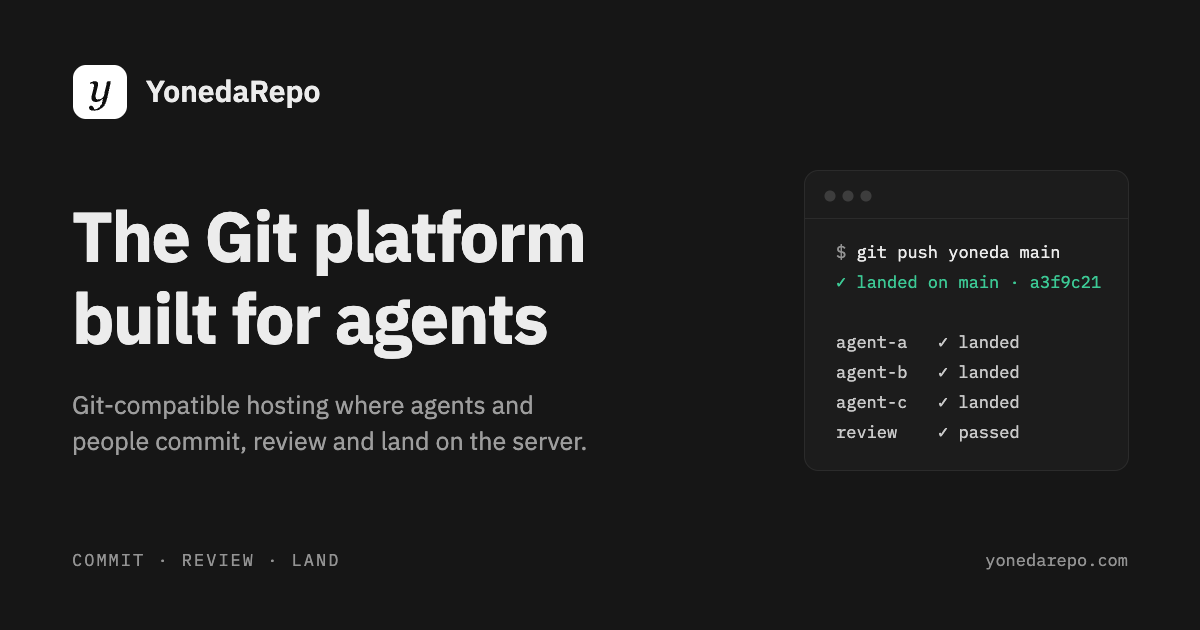
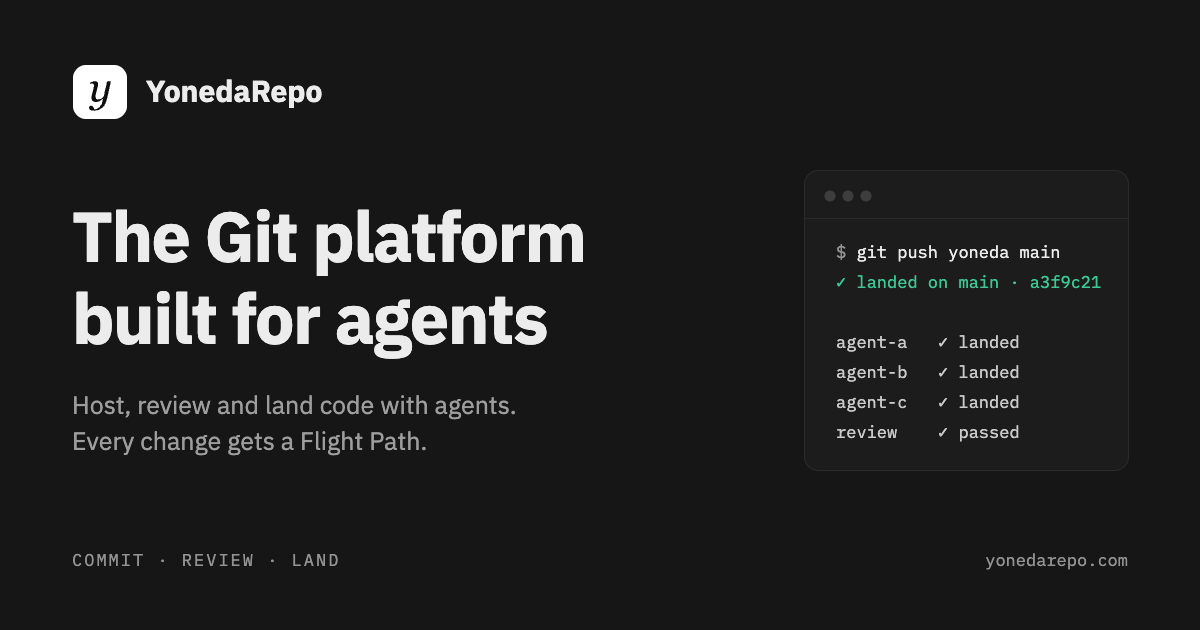
Search and social previews use the Flight Path line

Changed region(s): [[0.0617, 0.6333, 0.4933, 0.7238], [0.1542, 0.1206, 0.2775, 0.181]]

diff --git a/frontend/index.html b/frontend/index.html
@@ -5,7 +5,7 @@
     <meta name="viewport" content="width=device-width, initial-scale=1.0" />
     <meta name="theme-color" content="#0f0f0f" />
     <title>YonedaRepo — The Git platform built for agents</title>
-    <meta name="description" content="Git-compatible hosting where agents and people commit, review and land on the server. Every session’s context stays with the code." />
+    <meta name="description" content="Host, review and land code with agents on a Git platform that gives every change a Flight Path, built for the scale and throughput of agentic coding. Every session’s context stays with the code." />
     <script>
       // The viewer's theme before the first paint (features/shell/theme.ts): an explicit
       // Light or Dark choice; without one CSS follows prefers-color-scheme.
@@ -21,16 +21,16 @@
     <meta property="og:type" content="website" />
     <meta property="og:site_name" content="YonedaRepo" />
     <meta property="og:title" content="YonedaRepo — The Git platform built for agents" />
-    <meta property="og:description" content="Git-compatible hosting where agents and people commit, review and land on the server. Every session’s context stays with the code." />
+    <meta property="og:description" content="Host, review and land code with agents on a Git platform that gives every change a Flight Path, built for the scale and throughput of agentic coding. Every session’s context stays with the code." />
     <meta property="og:url" content="__YONEDA_PUBLIC_ORIGIN__" />
     <meta property="og:image" content="__YONEDA_SOCIAL_IMAGE_URL__" />
     <meta property="og:image:width" content="1200" />
     <meta property="og:image:height" content="630" />
     <meta property="og:image:type" content="image/png" />
-    <meta property="og:image:alt" content="YonedaRepo: The Git platform built for agents. Git-compatible hosting where agents and people commit, review and land on the server. Every session’s context stays with the code." />
+    <meta property="og:image:alt" content="YonedaRepo: The Git platform built for agents. Host, review and land code with agents on a Git platform that gives every change a Flight Path, built for the scale and throughput of agentic coding. Every session’s context stays with the code." />
     <meta name="twitter:card" content="summary_large_image" />
     <meta name="twitter:title" content="YonedaRepo — The Git platform built for agents" />
-    <meta name="twitter:description" content="Git-compatible hosting where agents and people commit, review and land on the server. Every session’s context stays with the code." />
+    <meta name="twitter:description" content="Host, review and land code with agents on a Git platform that gives every change a Flight Path, built for the scale and throughput of agentic coding. Every session’s context stays with the code." />
     <meta name="twitter:image" content="__YONEDA_SOCIAL_IMAGE_URL__" />
     <meta name="twitter:image:alt" content="YonedaRepo: The Git platform built for agents." />
   </head>

diff --git a/tests/workers/website-metadata.test.ts b/tests/workers/website-metadata.test.ts
@@ -6,7 +6,7 @@ const websiteAssets = async (req: Request, env: Env) => (await websitePage(req, 
 
 const template = `<!doctype html><html><head>
 <title>YonedaRepo — The Git platform built for agents</title>
-<meta name="description" content="Git-compatible hosting where agents and people commit, review and land on the server. Every session’s context stays with the code.">
+<meta name="description" content="Host, review and land code with agents on a Git platform that gives every change a Flight Path, built for the scale and throughput of agentic coding. Every session’s context stays with the code.">
 <link rel="canonical" href="__YONEDA_PUBLIC_ORIGIN__">
 <meta property="og:url" content="__YONEDA_PUBLIC_ORIGIN__">
 <meta property="og:image" content="__YONEDA_SOCIAL_IMAGE_URL__">

diff --git a/frontend/src/features/site/seo.ts b/frontend/src/features/site/seo.ts
@@ -10,7 +10,7 @@ import { DOCS_HOME, formatSitePage, type SitePage } from './siteRoute';
 
 /** index.html's own description: the home page's, and any page's without one. */
 export const DEFAULT_DESCRIPTION =
-  'Git-compatible hosting where agents and people commit, review and land on the server. Every session’s context stays with the code.';
+  'Host, review and land code with agents on a Git platform that gives every change a Flight Path, built for the scale and throughput of agentic coding. Every session’s context stays with the code.';
 const HOME_TITLE = 'YonedaRepo — The Git platform built for agents';
 
 export type SeoRoute = {
